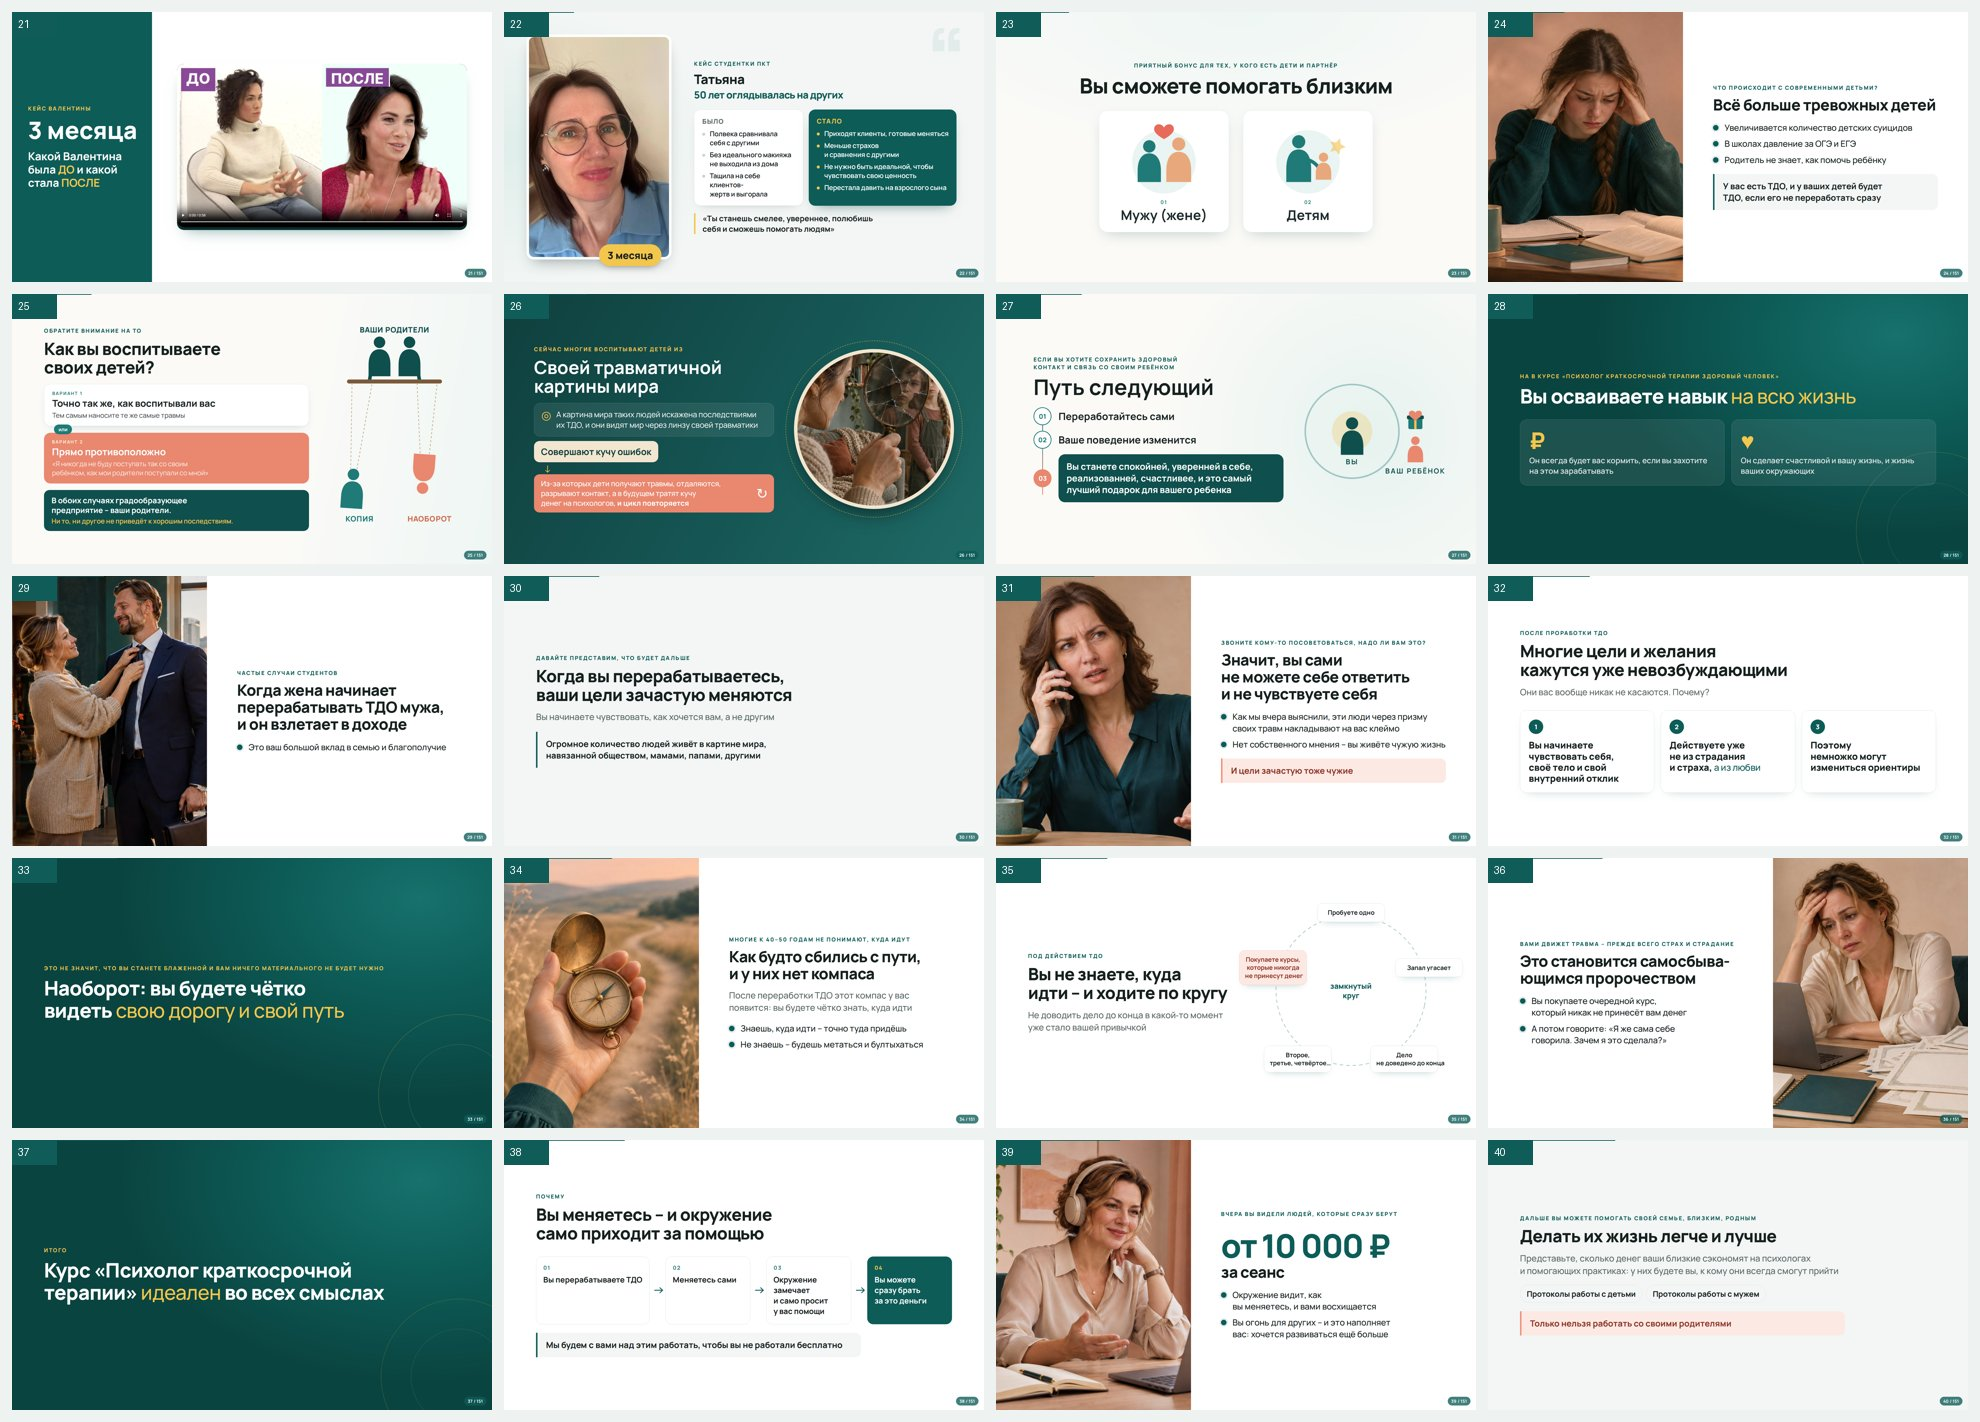
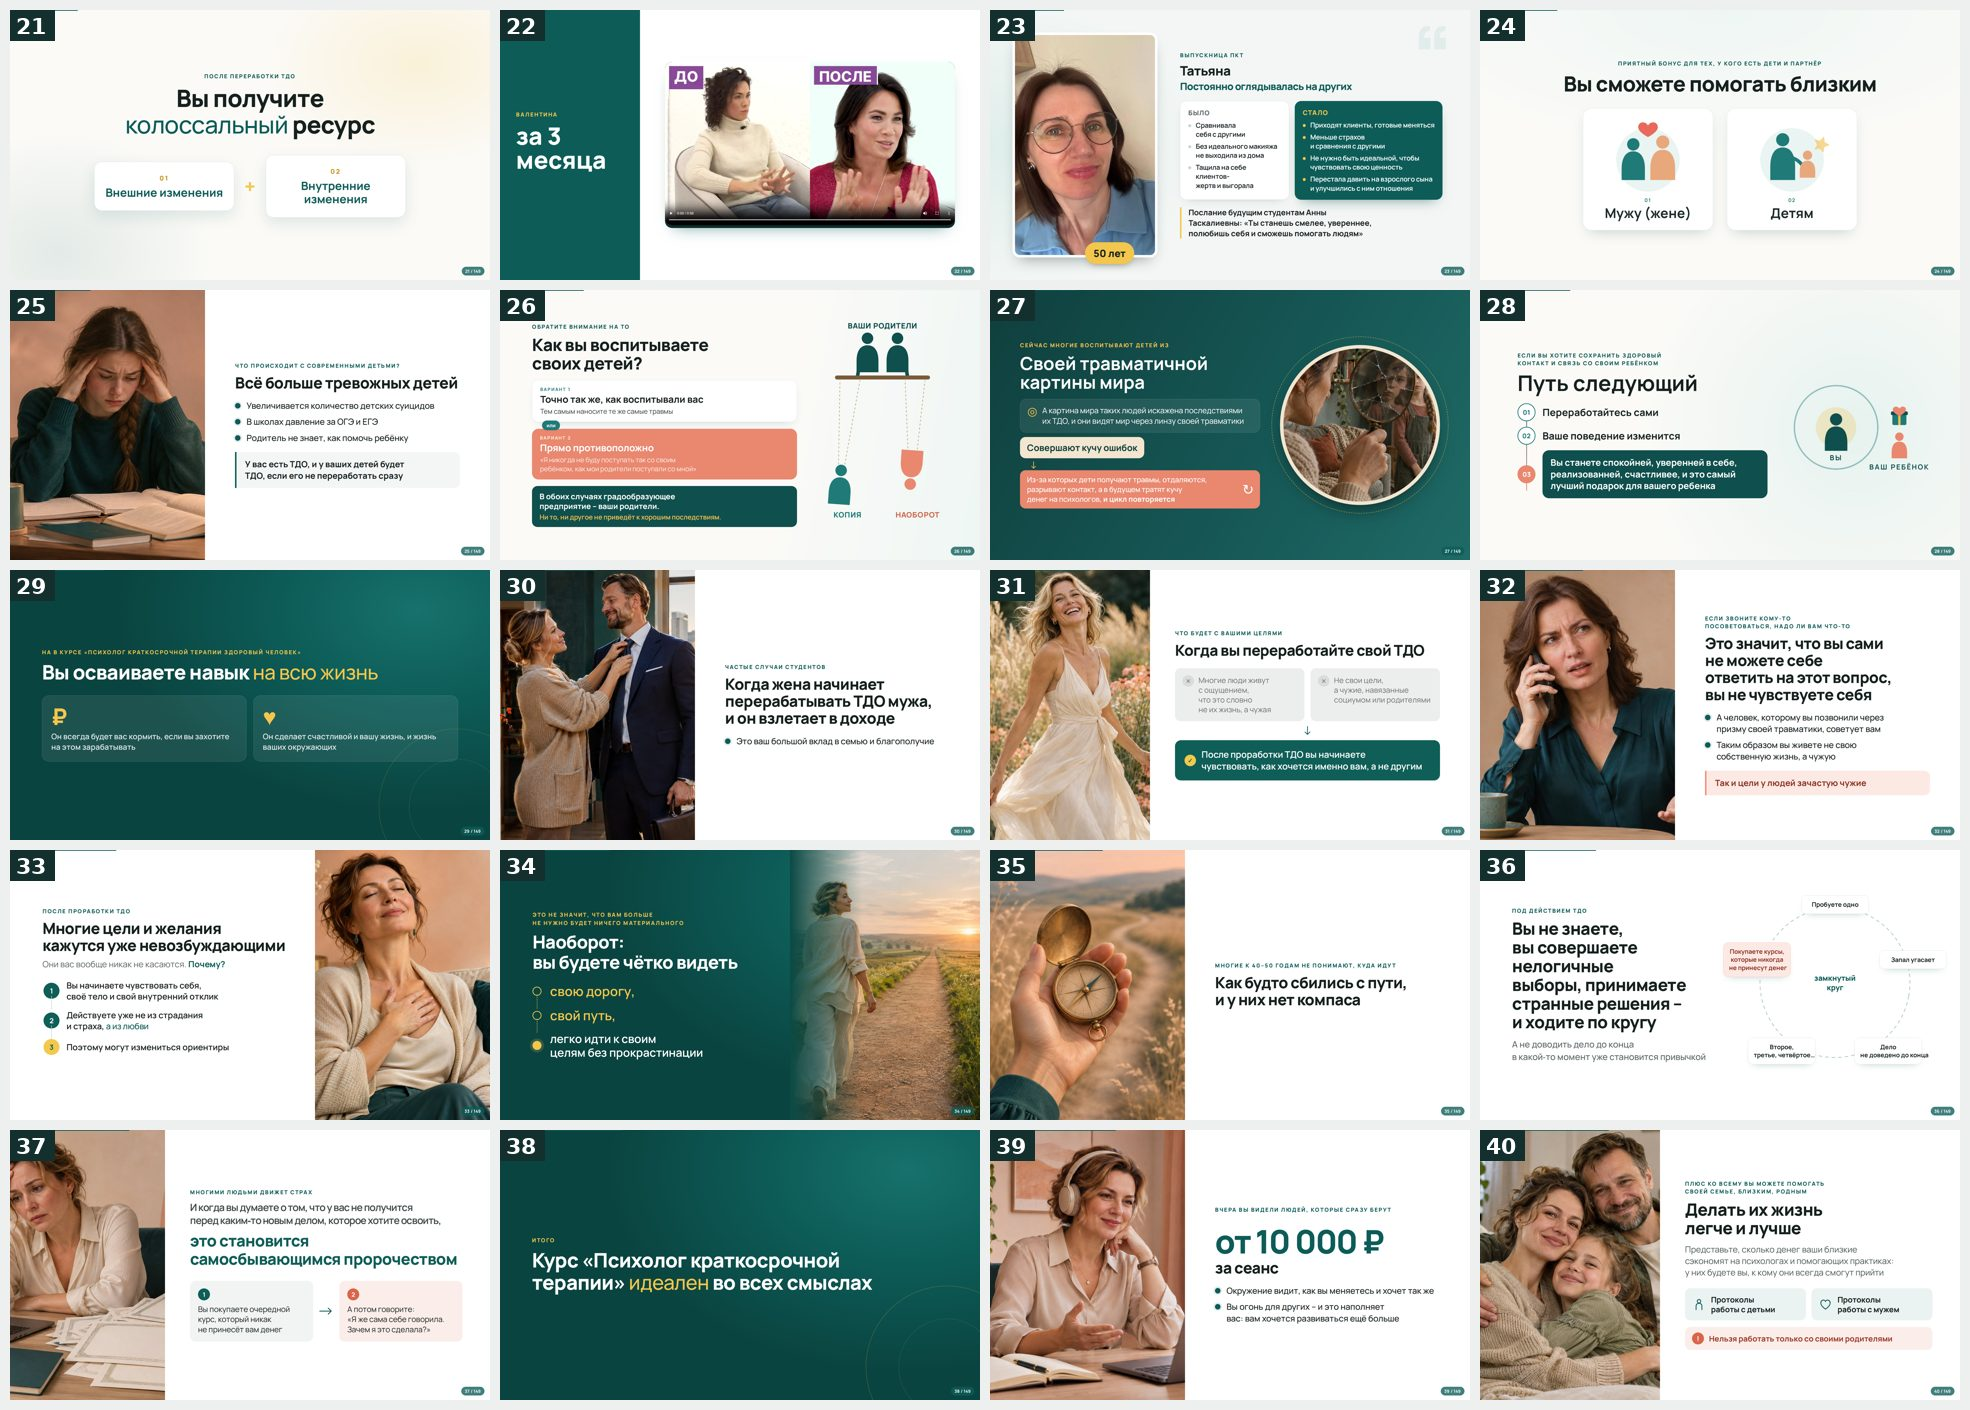
praktikum-efir-3: листы 149 слайдов

diff --git a/praktikum-efir-3/listy/index.html b/praktikum-efir-3/listy/index.html
@@ -1,1 +1,1 @@
-<!doctype html><html lang="ru"><head><meta charset="utf-8"><meta name="viewport" content="width=device-width,initial-scale=1"><meta name="robots" content="noindex"><title>Эфир 3 – листы слайдов</title><style>body{margin:0;background:#eef0f0;font-family:system-ui,sans-serif;color:#13302e}h1{font-size:22px;margin:20px 16px}h2{font-size:16px;margin:24px 16px 8px}img{display:block;width:calc(100% - 32px);max-width:1600px;margin:0 16px;border-radius:8px}</style></head><body><h1>Эфир 3 «Новая денежная реальность» – все 151 слайд</h1><h2>Слайды 1–20</h2><img src="list-1.jpg" alt="Слайды 1–20" loading="lazy"><h2>Слайды 21–40</h2><img src="list-2.jpg" alt="Слайды 21–40" loading="lazy"><h2>Слайды 41–60</h2><img src="list-3.jpg" alt="Слайды 41–60" loading="lazy"><h2>Слайды 61–80</h2><img src="list-4.jpg" alt="Слайды 61–80" loading="lazy"><h2>Слайды 81–100</h2><img src="list-5.jpg" alt="Слайды 81–100" loading="lazy"><h2>Слайды 101–120</h2><img src="list-6.jpg" alt="Слайды 101–120" loading="lazy"><h2>Слайды 121–140</h2><img src="list-7.jpg" alt="Слайды 121–140" loading="lazy"><h2>Слайды 141–151</h2><img src="list-8.jpg" alt="Слайды 141–151" loading="lazy"></body></html>
+<!doctype html><html lang="ru"><head><meta charset="utf-8"><meta name="viewport" content="width=device-width,initial-scale=1"><meta name="robots" content="noindex"><title>Эфир 3 – листы слайдов</title><style>body{margin:0;background:#eef0f0;font-family:system-ui,sans-serif;color:#13302e}h1{font-size:22px;margin:20px 16px}h2{font-size:16px;margin:24px 16px 8px}img{display:block;width:calc(100% - 32px);max-width:1600px;margin:0 16px;border-radius:8px}</style></head><body><h1>Эфир 3 «Новая денежная реальность» – все 149 слайдов</h1><h2>Слайды 1–20</h2><img src="list-1.jpg" alt="Слайды 1–20" loading="lazy"><h2>Слайды 21–40</h2><img src="list-2.jpg" alt="Слайды 21–40" loading="lazy"><h2>Слайды 41–60</h2><img src="list-3.jpg" alt="Слайды 41–60" loading="lazy"><h2>Слайды 61–80</h2><img src="list-4.jpg" alt="Слайды 61–80" loading="lazy"><h2>Слайды 81–100</h2><img src="list-5.jpg" alt="Слайды 81–100" loading="lazy"><h2>Слайды 101–120</h2><img src="list-6.jpg" alt="Слайды 101–120" loading="lazy"><h2>Слайды 121–140</h2><img src="list-7.jpg" alt="Слайды 121–140" loading="lazy"><h2>Слайды 141–149</h2><img src="list-8.jpg" alt="Слайды 141–149" loading="lazy"></body></html>
